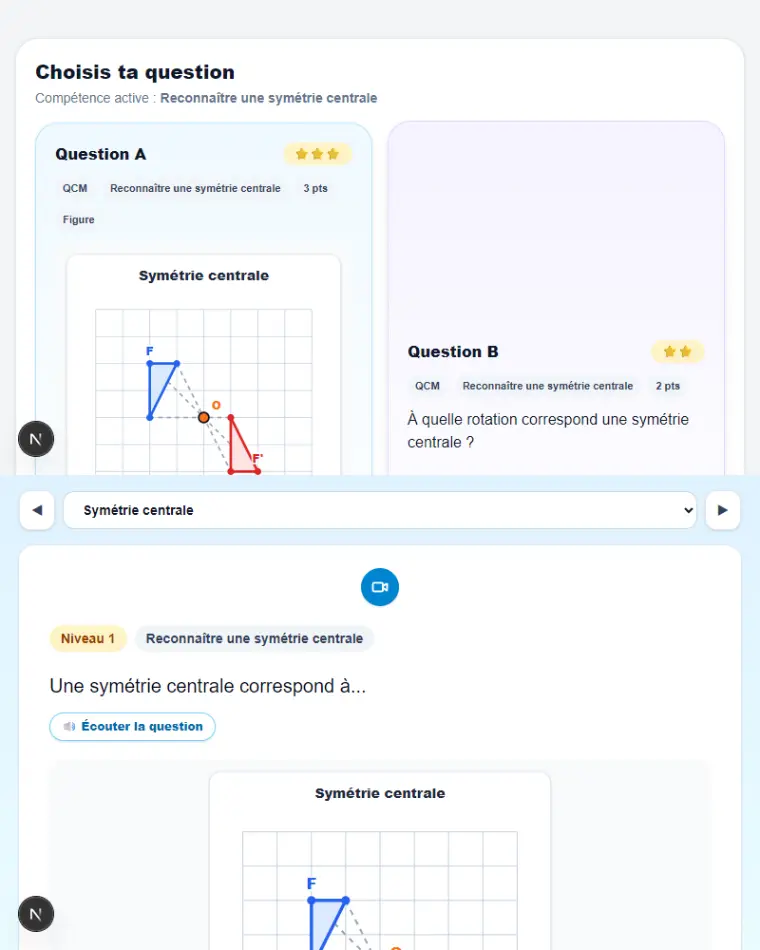
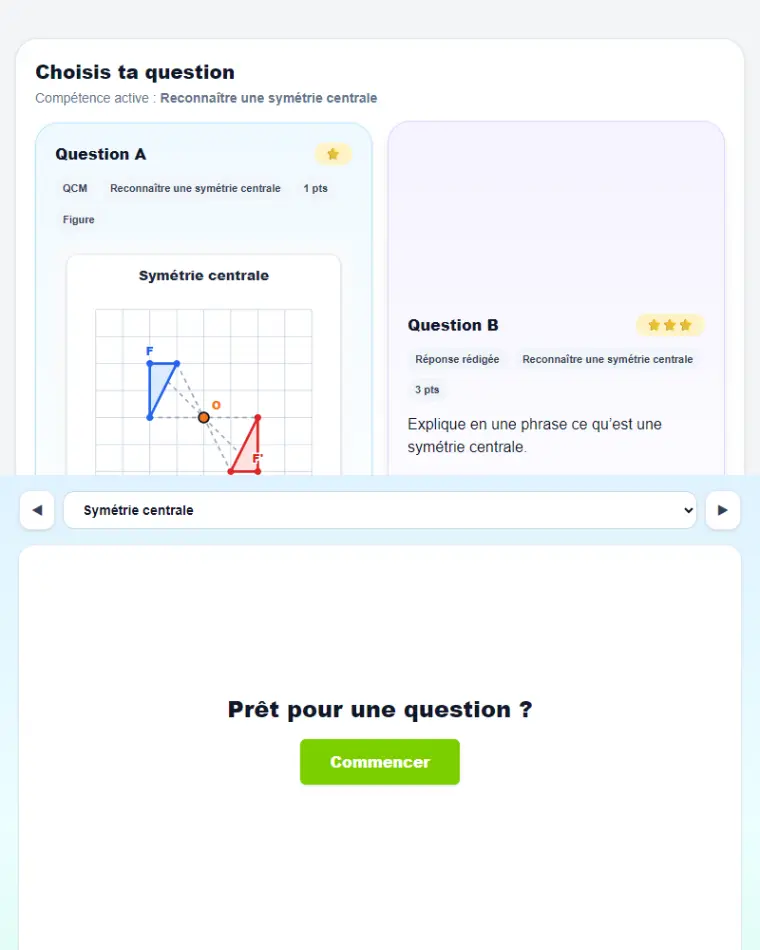
Deux etalons : l'apercu finit sur l'invitation, pas sur plus de devoirs
Frederic, apres avoir vu 58 captures de lycee produites par une fournee
interrompue : « j'adore le Pret pour une question », puis « c'est comme
Marie Curie, j'ai l'impression qu'une erreur a donne la solution pour le
mode simple ».

L'erreur etait un clic oublie sur « Commencer ». Ce qu'elle a montre : le
premier ecran du panneau dit LE TRAVAIL (deux enonces au choix), et le
second peut dire LA PORTE — « Pret pour une question ? » et son bouton
vert. L'apercu finit alors sur une invitation au lieu de finir sur plus de
devoirs. Pour un panneau dont le seul travail est de faire cliquer, c'est
le meilleur dernier mot.

Deux etalons pour comparer, une notion par matiere :
  maths/5e/sym_centrale et francais/5e/conjugaison_temps.
Les 45 autres aperçus de 5e gardent un exercice sur leur second ecran : il
suffit de survoler l'un puis l'autre pour trancher.

⚠ L'INVITATION NE PEUT PAS ETRE LE SEUL MOT. Au primaire et sur les
niveaux du CECRL, la vue complete n'existe pas : il n'y a qu'UN ecran. S'y
arreter sur l'invitation montrerait un bouton vert et aucun exercice. La
regle est donc : on saute le demarrage seulement quand le mode simple a un
ecran devant lui.

Deux bogues corriges au passage, tous deux invisibles a la lecture :
  — une premiere ecriture rendait la capture par sortie anticipee, donc
    AVANT le retrait du chrome : la bande montrait le bandeau
    d'installation, l'en-tete du site et la barre du tutor ;
[…]

diff --git a/scripts/capturer-apercus-coach.ts b/scripts/capturer-apercus-coach.ts
@@ -160,8 +160,21 @@ function dejaLa(c: Cible): string | null {
  */
 const aFaire = TOUTES.filter((c) => {
   if (filtres.length > 0) {
+    /**
+     * ⭐ TROIS GRAINS DE FILTRE, ET LE PLUS FIN EST LE PLUS UTILE.
+     *   « maths »                  toute la matière
+     *   « maths:5e »               une classe
+     *   « maths:5e:sym_centrale »  UNE notion
+     *
+     * Le troisième a été ajouté pour comparer deux façons de capturer sans
+     * refaire les 47 aperçus déjà bons — et il resservira à chaque fois qu'une
+     * notion seule échouera dans une grande fournée. Sans lui, la plus petite
+     * unité de travail était la classe, donc dix-neuf fichiers réécrits pour en
+     * corriger un.
+     */
     const cle = `${c.matiere}:${c.classe}`;
-    if (!filtres.some((f) => f === c.matiere || f === cle)) return false;
+    const cleNotion = `${cle}:${c.notion}`;
+    if (!filtres.some((f) => f === c.matiere || f === cle || f === cleNotion)) return false;
   }
   return tout ? true : !dejaLa(c);
 });
@@ -241,11 +254,30 @@ async function capturer(page: Page, c: Cible): Promise<{ octets: Buffer; ecrans:
   const vues: string[] = defaut === "complete" ? ["complete", "simple"] : ["simple"];
 
   const bandes: Buffer[] = [];
-  for (const vue of vues) bandes.push(await capturerUneVue(page, c, vue));
+  for (const vue of vues) {
+    // Le mode simple ne s'arrête sur l'invitation que s'il a un écran devant lui.
+    const demarrer = !(vue === "simple" && vues.length > 1);
+    bandes.push(await capturerUneVue(page, c, vue, demarrer));
+  }
   return { octets: await empiler(bandes), ecrans: bandes.length };
 }
 
-async function capturerUneVue(page: Page, c: Cible, vue: string): Promise<Buffer> {
+async function capturerUneVue(
+  page: Page,
+  c: Cible,
+  vue: string,
+  /**
+   * ⚠ FAUT-IL DÉMARRER L'EXERCICE, OU S'ARRÊTER SUR L'INVITATION ?
+   *
+   * `true` partout, SAUF pour le mode simple quand il est le SECOND écran.
+   * La nuance n'est pas cosmétique : au primaire et sur les niveaux du CECRL,
+   * la vue simple est le SEUL écran. S'y arrêter sur l'invitation, ce serait
+   * montrer un bouton vert et rien d'autre — une notion qui ne montrerait
+   * aucun exercice. L'invitation est un BON DERNIER MOT ; elle ne peut pas
+   * être le seul mot.
+   */
+  demarrer: boolean,
+): Promise<Buffer> {
   /**
    * ⚠ L'URL EST CELLE DU CLIC, `display` COMPRIS — sinon l'aperçu ment.
    *
@@ -411,39 +443,53 @@ async function capturerUneVue(page: Page, c: Cible, vue: string): Promise<Buffer
    * question se poser une fois le départ donné.
    */
   if (vue === "simple") {
-    /**
-     * ⚠ ON ATTEND LE BOUTON, ON NE DEMANDE PAS S'IL EST DÉJÀ LÀ.
-     *
-     * Un `isVisible()` posé à l'arrivée sur la page ne mesure pas l'état de la
-     * page : il mesure à quel moment on a posé la question. React n'a pas fini
-     * de monter la vue, la réponse est « non », on ne clique pas — et on
-     * photographie l'écran de départ.
-     */
     const commencer = page.getByRole("button", { name: /^Commencer$/i }).first();
     const aDemarrer = await commencer
       .waitFor({ state: "visible", timeout: 12000 })
       .then(() => true)
       .catch(() => false);
-    if (aDemarrer) await commencer.click({ timeout: 15000 });
 
     /**
-     * ⚠ PUIS ON ATTEND QUE L'ÉCRAN DE DÉPART S'EFFACE, PAS DEUX SECONDES.
+     * ⭐ ON S'ARRÊTE SUR L'INVITATION QUAND ELLE N'EST PAS LE SEUL MOT.
      *
-     * Il y avait ici un `waitForTimeout(2500)`, chronométré à la main. Ça
-     * marchait la plupart du temps et laissait des trous AU HASARD : sur le
-     * français de 5e, la seconde bande montrait « Prêt pour une question ? » et
-     * son bouton « Commencer » au lieu d'un exercice — la moitié du panneau ne
-     * montrait rien, et le fichier était d'un poids normal.
-     * La procédure ne change pas — ouvrir, cliquer, photographier ; c'est le
-     * chronomètre qui devient une vérification.
+     * « Prêt pour une question ? » et son bouton vert : c'est la PORTE, pas le
+     * travail. Quand le panneau a déjà montré deux énoncés au choix sur son
+     * premier écran, le second finit alors sur une invitation au lieu de finir
+     * sur plus de devoirs. Pour un panneau dont le seul travail est de faire
+     * cliquer, c'est le meilleur dernier mot.
+     *
+     * ⛔ CETTE IDÉE EST NÉE D'UN BOGUE, et il faut le savoir pour ne pas la
+     * « corriger » par mégarde. Une fournée interrompue a produit 58 captures de
+     * lycée montrant cet écran, avec une version du script qui oubliait de
+     * cliquer. Frédéric, 27/08 : « j'adore le Prêt pour une question », puis
+     * « c'est comme Marie Curie, j'ai l'impression qu'une erreur a donné la
+     * solution pour le mode simple ».
+     *
+     * ⚠ ON NE SORT PAS D'ICI EN COURT-CIRCUIT. Une première écriture rendait la
+     * capture tout de suite — donc AVANT le retrait du chrome, et la bande
+     * montrait le bandeau d'installation, l'en-tête du site et la barre du
+     * tutor. On se contente de sauter le clic ; la suite de la fonction fait son
+     * travail habituel.
      */
-    await page.waitForFunction(
-      () => !document.body.innerText.includes("Prêt pour une question"),
-      undefined,
-      { timeout: 20000 },
-    );
-    // Le temps que l'énoncé se pose et que ses dessins se rendent.
-    await page.waitForTimeout(1000);
+    if (demarrer) {
+      if (aDemarrer) await commencer.click({ timeout: 15000 });
+
+      /**
+       * ⚠ ON ATTEND QUE L'ÉCRAN DE DÉPART S'EFFACE, PAS DEUX SECONDES.
+       *
+       * Il y avait ici un `waitForTimeout(2500)`, chronométré à la main. Ça
+       * marchait la plupart du temps et laissait des trous AU HASARD : sur le
+       * français de 5e, la seconde bande montrait l'écran de départ au lieu d'un
+       * exercice — dans un fichier d'un poids parfaitement normal.
+       */
+      await page.waitForFunction(
+        () => !document.body.innerText.includes("Prêt pour une question"),
+        undefined,
+        { timeout: 20000 },
+      );
+      // Le temps que l'énoncé se pose et que ses dessins se rendent.
+      await page.waitForTimeout(1000);
+    }
   }
 
   /**
@@ -469,6 +515,14 @@ async function capturerUneVue(page: Page, c: Cible, vue: string): Promise<Buffer
   await page.addStyleTag({
     content: `
       [data-hors-apercu] { display: none !important; }
+      /* La console de developpement de Next : le badge N/1 Issue en bas a
+         gauche. Il vit dans un nextjs-portal avec un shadow DOM, donc le filtre
+         des elements fixes ne le voit pas (querySelectorAll ne traverse pas un
+         shadow root). Il n existe qu en developpement, mais les captures sont
+         fabriquees en developpement et partiraient en production avec lui.
+         ATTENTION : pas d accent grave dans ce commentaire, il est dans un
+         gabarit de chaine et le refermerait. */
+      nextjs-portal { display: none !important; }
       html { scroll-behavior: auto !important; }
       *, *::before, *::after {
         animation-duration: 0s !important;

diff --git a/lib/tutor-v4/apercus.generated.ts b/lib/tutor-v4/apercus.generated.ts
@@ -58,6 +58,13 @@ export const APERCUS_COACH: Readonly<Record<string, number>> = {
   "maths/5e/sym_centrale": 2,
   "maths/5e/triangle_figure": 2,
   "maths/5e/volume_solide": 2,
+  "maths/premiere/alea_arbre": 2,
+  "maths/premiere/alea_arbre_calcul": 2,
+  "maths/premiere/alea_bernoulli": 2,
+  "maths/premiere/alea_bernoulli_calcul": 2,
+  "maths/premiere/alea_conditionnelle": 2,
+  "maths/premiere/alea_conditionnelle_calcul": 2,
+  "maths/premiere/alea_independance": 2,
   "maths/premiere/auto_coefficient_multiplicateur": 2,
   "maths/premiere/auto_droites": 2,
   "maths/premiere/auto_formules": 2,
@@ -66,10 +73,73 @@ export const APERCUS_COACH: Readonly<Record<string, number>> = {
   "maths/premiere/auto_ordres_unites": 2,
   "maths/premiere/auto_resolution_graphique": 2,
   "maths/premiere/auto_taux_evolution": 2,
+  "maths/premiere/der_formules": 2,
+  "maths/premiere/der_polynome": 2,
+  "maths/premiere/expo_fonction_lecture": 2,
+  "maths/premiere/expo_suite_geometrique": 2,
+  "maths/premiere/expo_suite_terme_general": 2,
+  "maths/premiere/expo_taux_moyen": 2,
   "maths/premiere/info_ajustement_affine": 2,
   "maths/premiere/info_point_moyen": 2,
   "maths/premiere/info_representations_croisees": 2,
   "maths/premiere/info_tableur": 2,
+  "maths/premiere/lin_suite_arithmetique": 2,
+  "maths/premiere/lin_suite_terme_general": 2,
+  "maths/premiere/quad_parabole": 2,
+  "maths/premiere/quad_racines_signe": 2,
+  "maths/premiere-spe/algorithmique": 2,
+  "maths/premiere-spe/derivation": 2,
+  "maths/premiere-spe/exponentielle": 2,
+  "maths/premiere-spe/geometrie_reperee": 2,
+  "maths/premiere-spe/logique_ensembles": 2,
+  "maths/premiere-spe/probabilites_conditionnelles": 2,
+  "maths/premiere-spe/produit_scalaire": 2,
+  "maths/premiere-spe/second_degre": 2,
+  "maths/premiere-spe/suites": 2,
+  "maths/premiere-spe/trigonometrie": 2,
+  "maths/premiere-spe/variables_aleatoires": 2,
+  "maths/premiere-spe/variations_fonctions": 2,
+  "maths/stmg/auto_developper_factoriser": 2,
+  "maths/stmg/auto_equations": 2,
+  "maths/stmg/auto_evo_coefficient": 2,
+  "maths/stmg/auto_evo_enchainees": 2,
+  "maths/stmg/auto_evo_taux": 2,
+  "maths/stmg/auto_formules": 2,
+  "maths/stmg/auto_fractions_puissances": 2,
+  "maths/stmg/auto_indice": 2,
+  "maths/stmg/auto_ordres_unites": 2,
+  "maths/stmg/auto_proportion": 2,
+  "maths/stmg/auto_signes": 2,
+  "maths/stmg/proba_arbre": 2,
+  "maths/stmg/proba_arbre_calcul": 2,
+  "maths/stmg/proba_conditionnelle_distinguer": 2,
+  "maths/stmg/proba_conditionnelle_tableau": 2,
+  "maths/stmg/proba_epreuves_independantes": 2,
+  "maths/stmg/proba_independance": 2,
+  "maths/stmg/stat_changement_variable": 2,
+  "maths/stmg/stat_interpoler": 2,
+  "maths/stmg/stat_moindres_carres": 2,
+  "maths/stmg/va_bernoulli": 2,
+  "maths/stmg/va_esperance": 2,
+  "maths/stmg/va_loi_probabilite": 2,
+  "maths/terminale-spe/algorithmique_python": 2,
+  "maths/terminale-spe/concentration_echantillonnage": 2,
+  "maths/terminale-spe/continuite_tvi": 2,
+  "maths/terminale-spe/convexite_fonction": 2,
+  "maths/terminale-spe/denombrement_combinatoire": 2,
+  "maths/terminale-spe/derivation_fonction": 2,
+  "maths/terminale-spe/equation_differentielle": 2,
+  "maths/terminale-spe/fonction_exponentielle": 2,
+  "maths/terminale-spe/fonction_logarithme": 2,
+  "maths/terminale-spe/geometrie_espace": 2,
+  "maths/terminale-spe/limite_fonction": 2,
+  "maths/terminale-spe/limite_suite": 2,
+  "maths/terminale-spe/loi_binomiale": 2,
+  "maths/terminale-spe/primitive_integrale": 2,
+  "maths/terminale-spe/probabilite_conditionnelle": 2,
+  "maths/terminale-spe/produit_scalaire_espace": 2,
+  "maths/terminale-spe/suite_numerique": 2,
+  "maths/terminale-spe/variable_aleatoire": 2,
 };
 
 /** Le chemin de l'aperçu d'une notion, ou `null` si elle n'en a pas. */

diff --git a/scripts/capturer-apercus.ts b/scripts/capturer-apercus.ts
@@ -314,6 +314,14 @@ async function capturer(page: Page, cible: Cible): Promise<{ octets: Buffer; ecr
   await page.addStyleTag({
     content: `
       [data-hors-apercu] { display: none !important; }
+      /* La console de developpement de Next : le badge N/1 Issue en bas a
+         gauche. Il vit dans un nextjs-portal avec un shadow DOM, donc le filtre
+         des elements fixes ne le voit pas (querySelectorAll ne traverse pas un
+         shadow root). Il n existe qu en developpement, mais les captures sont
+         fabriquees en developpement et partiraient en production avec lui.
+         ATTENTION : pas d accent grave dans ce commentaire, il est dans un
+         gabarit de chaine et le refermerait. */
+      nextjs-portal { display: none !important; }
       html { scroll-behavior: auto !important; }
       *, *::before, *::after {
         animation-duration: 0s !important;
